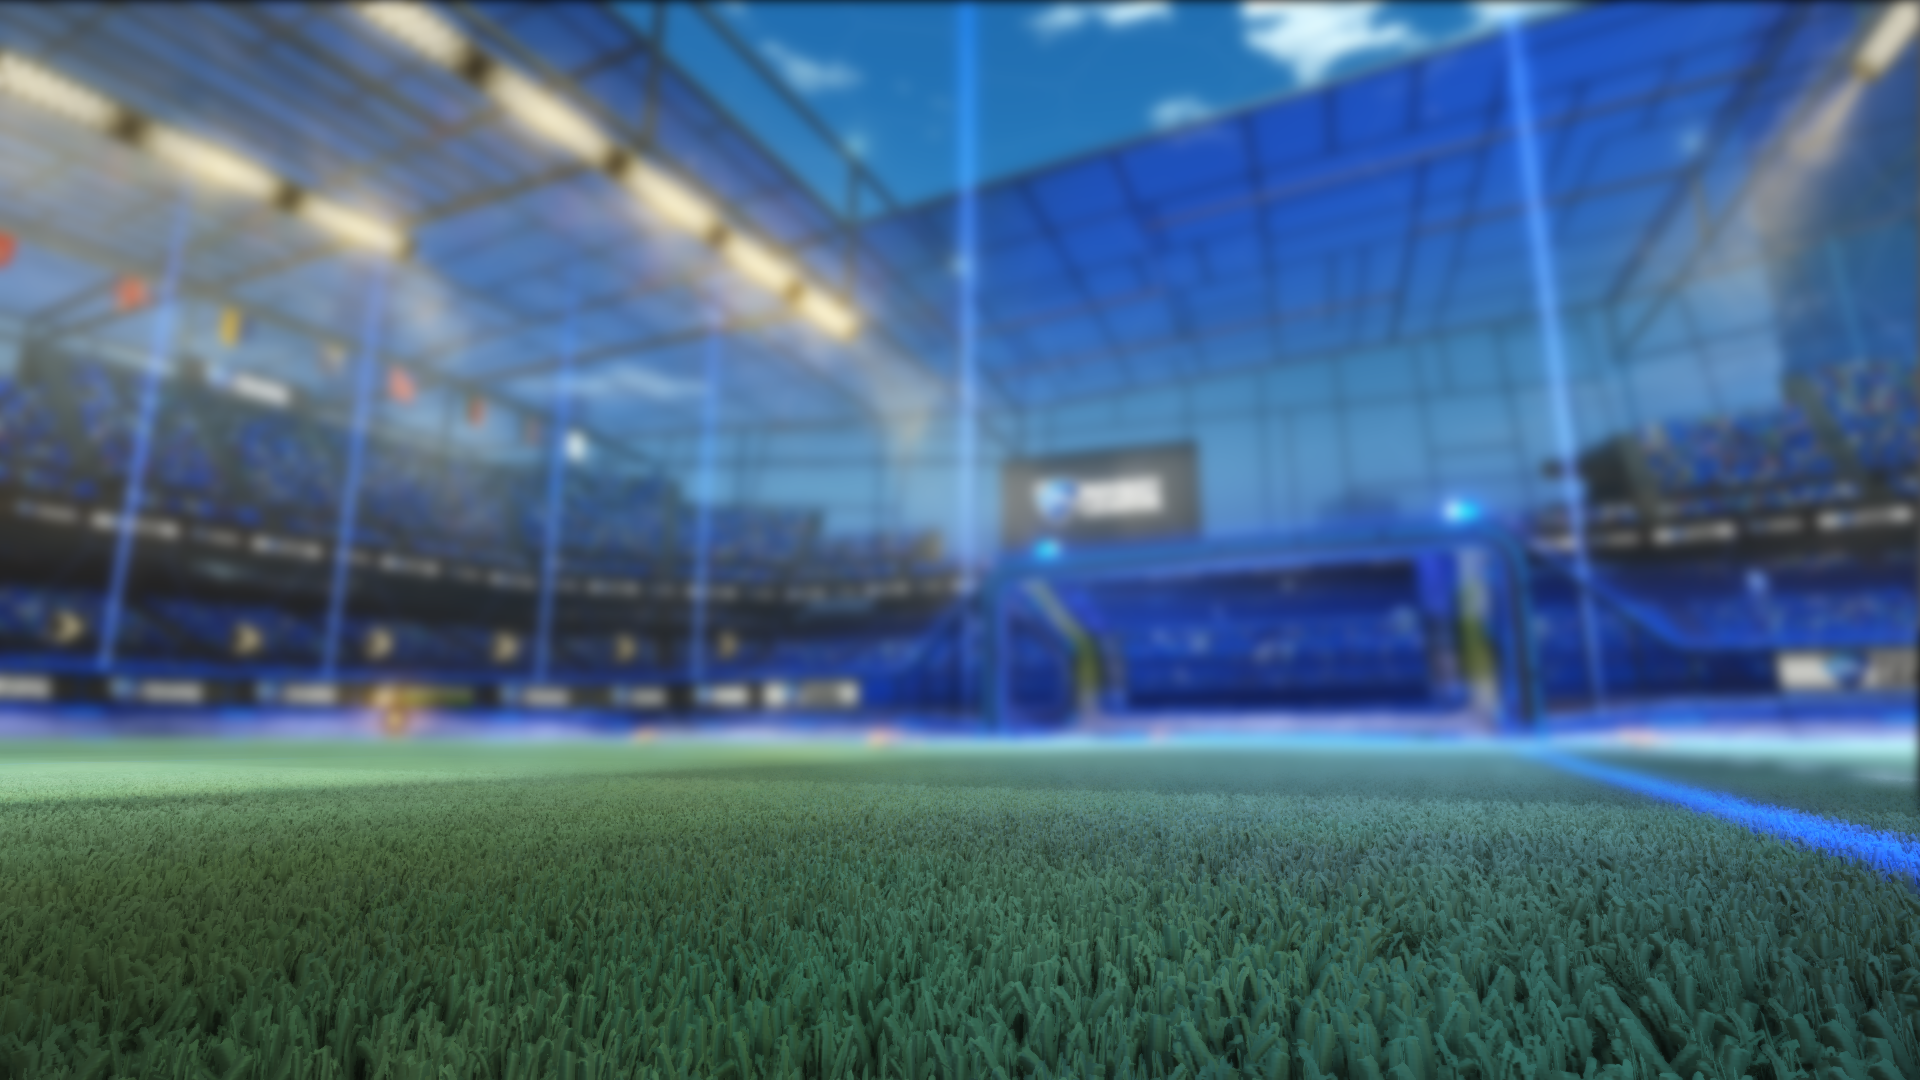
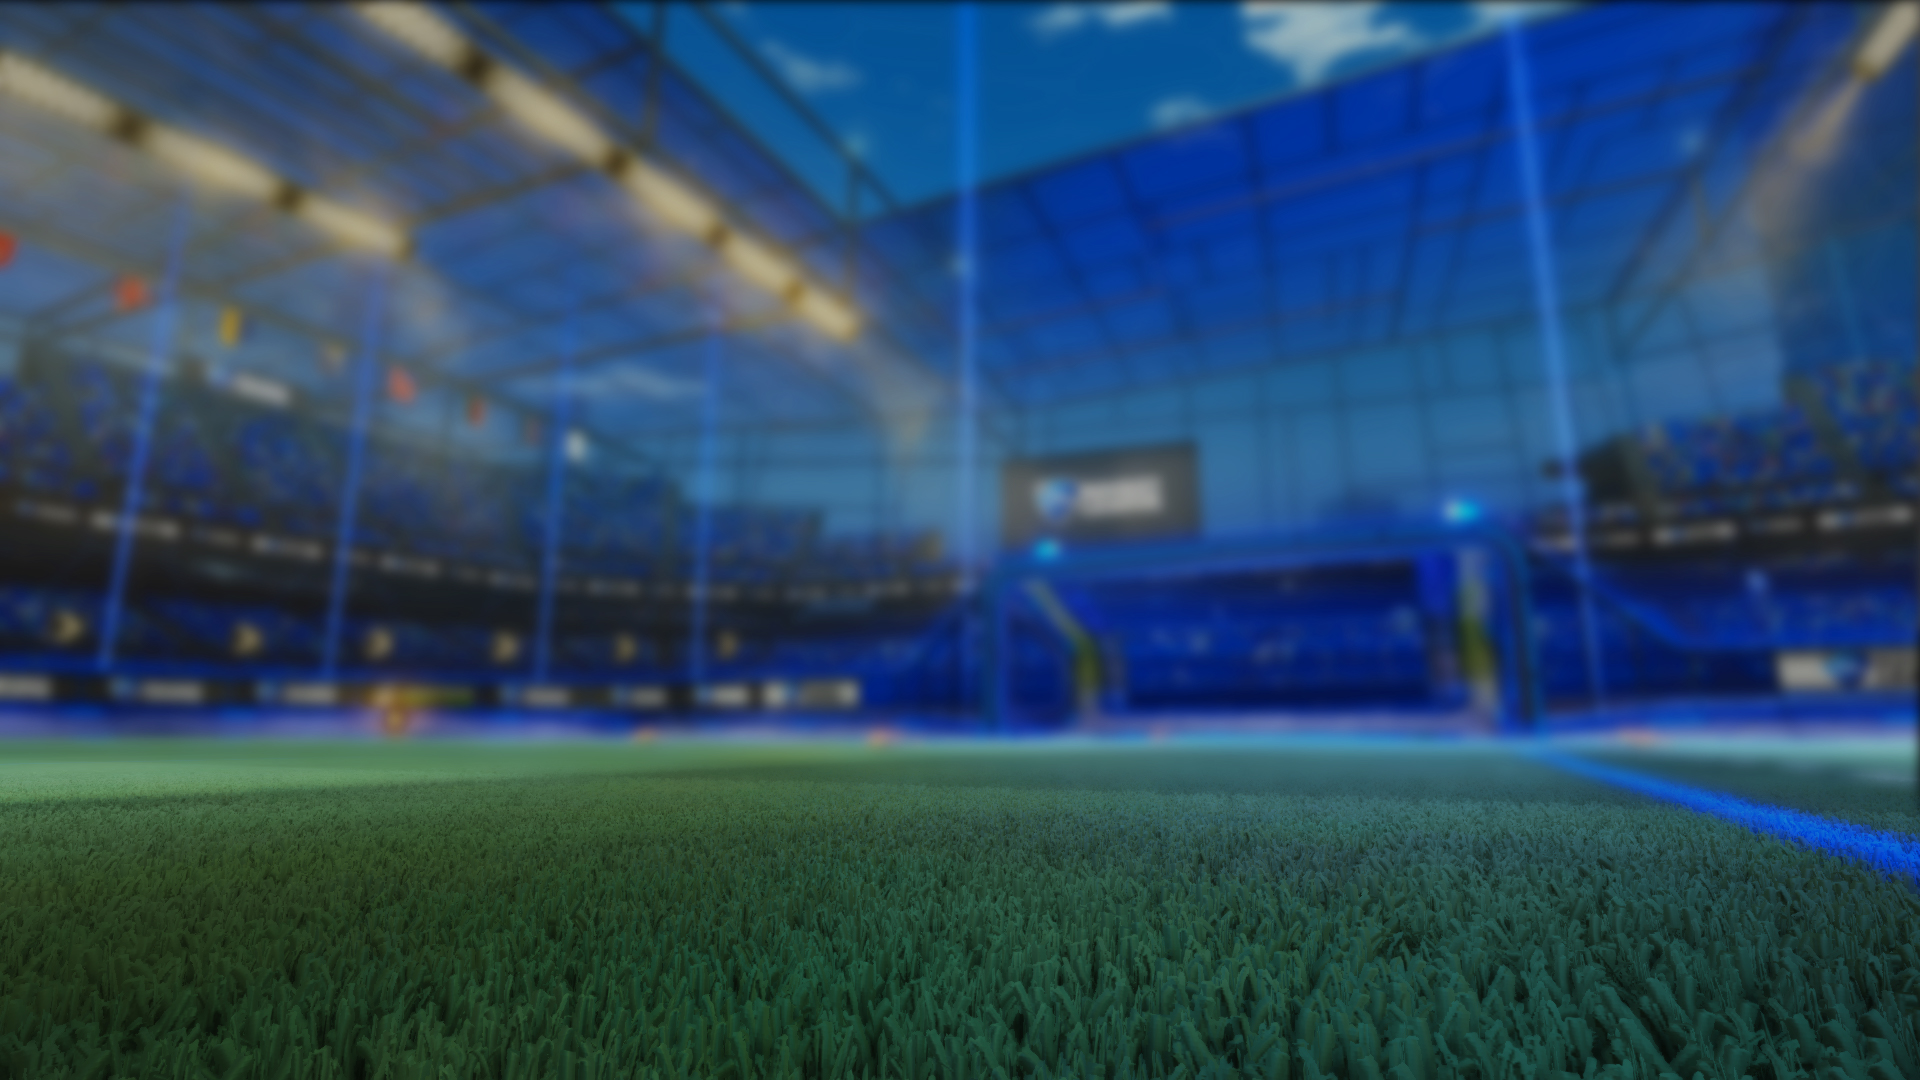
Page Compétion, RLCS et ESL + Modification visuel #1
Ajout des pages compétition , rlcs et esl , ainsi que le foncissement de l'image de fond pour faire ressortir le texte.

- Ajout de texte réel dans la page articles
- Retrait des liens vers les pages joueurs et techniques qui ne sont pas complète

#1

diff --git a/projetRL/ESL.html b/projetRL/ESL.html
@@ -1,0 +1,63 @@
+<!doctype html>
+<html lang="fr">
+<head>
+	<link rel="stylesheet" href="decoration/competition.css">
+	<meta charset="utf-8">
+	<title>rocketleague-fans</title>
+</head>
+<body>
+<header>
+<nav>
+	<h1>Rocket League Fans</h1>
+	<ul>
+		<li><a class="scale-effect" href="index.html">Accueil</a></li>
+		<li><a class="scale-effect" href="liste.html">Articles</a>
+			<ul>
+				<li><a class="scale-effect" href="Equipes.html">Equipes</a></li>
+				<li><a class="scale-effect" >Joueurs</a></li>
+				<li><a class="scale-effect" >Techniques</a></li>
+			</ul>
+		</li>
+		<li><a class="scale-effect" href="Competition.html">Compétition</a>
+			<ul>
+				<li><a class="scale-effect" href="RLCS.html">RLCS</a></li>
+				<li><a class="scale-effect" href="ESL.html">ESL</a></li>
+			</ul>
+		</li>
+		<li><a class="scale-effect" href="Contacter.html">Contacter</a></li>
+		<li><a class="scale-effect" href="Connexion.html">Connexion</a>
+			<ul>
+				<li><a class="scale-effect" href="Connexion.html">Se connecter</a></li>
+				<li><a class="scale-effect" href="Inscription.html">S'inscrire</a></li>
+			</ul>
+		</li>
+	</ul>
+</nav>
+</header>
+
+<section class="description">
+	
+	<h2>Compétitions internationales actuelles</h2>
+	
+	<h3>Intel Extreme Masters</h3>
+	<p id="description"> 
+		<b>
+			Les Intel Extreme Masters, appelés aussi IEM, sont la plus grande compétition internationale. Elle se décompose en plusieurs étapes à travers le monde comme Cologne, Shanghaï, New York, Rio de Janeiro ou encore Katowice. À l'issue de ces étapes, un classement est établi. Les vainqueurs de chaque étape et les 10 meilleurs du classement sont qualifiés pour la Grande finale. Les jeux actuellement utilisés sont Counter-Strike Global Offensive (CSGO), Starcraft 2 (SC2).
+		</b>
+	</p>
+	<h3>ESL One</h3>
+	<p id="description"> 
+		<b>
+			ESL One est une compétition uniquement offline dans un lieu mythique (souvent un stade ou une salle de spectacle de grande envergure). Il y a une phase de qualification online en amont rejoignant 8 équipes invitées grâce à leur statut de Légendes. Actuellement, Counter-Strike Global Offensive (CSGO) et Dota 2 sont les deux disciplines des ESL One.
+		</b>
+	</p>
+	<h3>ESL Pro League</h3>
+	<p id="description"> 
+		<b>
+			L'ESL Pro League est une compétition sous forme de phase de groupes regroupant les meilleures équipes. Elles se qualifient pour des finales offline avec de grands Cash-Prize. Actuellement, Counter-Strike Global Offensive (CSGO) et Rainbow6:Siege sont les deux jeux ayant une ligue de ce type.
+		</b>
+	</p>
+</section>
+
+</body>
+</html>

diff --git a/projetRL/RLCS.html b/projetRL/RLCS.html
@@ -1,0 +1,60 @@
+<!doctype html>
+<html lang="fr">
+<head>
+	<link rel="stylesheet" href="decoration/competition.css">
+	<meta charset="utf-8">
+	<title>rocketleague-fans</title>
+</head>
+<body>
+<header>
+<nav>
+	<h1>Rocket League Fans</h1>
+	<ul>
+		<li><a class="scale-effect" href="index.html">Accueil</a></li>
+		<li><a class="scale-effect" href="liste.html">Articles</a>
+			<ul>
+				<li><a class="scale-effect" href="Equipes.html">Equipes</a></li>
+				<li><a class="scale-effect" >Joueurs</a></li>
+				<li><a class="scale-effect" >Techniques</a></li>
+			</ul>
+		</li>
+		<li><a class="scale-effect" href="Competition.html">Compétition</a>
+			<ul>
+				<li><a class="scale-effect" href="RLCS.html">RLCS</a></li>
+				<li><a class="scale-effect" href="ESL.html">ESL</a></li>
+			</ul>
+		</li>
+		<li><a class="scale-effect" href="Contacter.html">Contacter</a></li>
+		<li><a class="scale-effect" href="Connexion.html">Connexion</a>
+			<ul>
+				<li><a class="scale-effect" href="Connexion.html">Se connecter</a></li>
+				<li><a class="scale-effect" href="Inscription.html">S'inscrire</a></li>
+			</ul>
+		</li>
+	</ul>
+</nav>
+</header>
+
+<section class="description">
+	
+	<h2>À propos de RLCS</h2>
+	<p id="description"> 
+		<b>
+			Les Rocket League Championship Series sont présentement à leur 10ieme saison, chaque région participante couronne un champion qui devront s'affronter par la suite pour le titre de champion du monde. Jusqu'à maintenant, chaque saison a été gagner par une équipe différente. Cependant, certains joueurs reviennent dans ces équipes ce qui fait en sorte que nous connaissons des joueurs comme Kaydop ou Turbopulsa qui sont couronner champion du monde 3 à 4 fois.
+		</b>
+	</p>
+	<h3>Un moment historique dans les RLCS</h3>
+	<p id="description"> 
+		<b>
+			Durant la finale de la saison 5, NRG Esports et Dignitas se retrouve à la partie sept de leur meilleur de 7. C'est durant les cinq dernières secondes du match que Dignitas réussit à faire un but pour briser l'égalité. Cela signifie que NRG doit absolument marquer avant la fin du compteur pour amener la partie en temps additionnel.
+		</b>
+	</p>
+	<h3>Voici ce qui arrive par la suite :</h3>
+</section>
+
+<section class="video-historique">
+	<iframe width="100%" height="664" src="https://www.youtube.com/embed/KNG7r1n6Jk8" frameborder="0" allow="accelerometer; autoplay; clipboard-write; encrypted-media; gyroscope; picture-in-picture" allowfullscreen></iframe>
+</section>
+
+</body>
+</html>

diff --git a/projetRL/Competition.html b/projetRL/Competition.html
@@ -34,39 +34,31 @@
 	</ul>
 </nav>
 </header>
-<h2> 1 : Les Équipes </h2>
+<h2> RLCS </h2>
 <article id="article">
 
 <div class="articles">
-	<a href="Equipes.html">
-		<img src="decoration/equipes.jpg" class="image" alt="equipes">
+	<a href="RLCS.html">
+		<img src="decoration/rlcs.jpg" class="image" alt="equipes">
 	</a>
 	<p>
 		<b>
-				Rocket League possède une multitude d'organisation différente qui forme des équipes afin de s'affronter dans les tournois internationaux. Dans cet article certaines équipes populaires sont présentées.
+				Les Rocket League Championship Series (souvent abrégé en RLCS) sont des tournois de sport électronique organisés par Psyonix sur le jeu Rocket League. Il s'agit des tournois les plus prestigieux de l'esport Rocket League.
 		</b>
 	</p>
 </div>
-<h3> 2 : Les Joueurs </h3>
+<h3> ESL </h3>
 <div class="articles">
-
-	<img src="decoration/joueurs.jpg" class="image" alt="joueurs">
+	<a href="ESL.html">
+		<img src="decoration/esl.jpg" class="image" alt="joueurs">
+	</a>
 	<p>
 		<b>
-				Les joueurs de rocket league sont récrutés par des organisations, cependant il est très rare qu'un joueur reste dans la même organisation durant toute sa carrière. Cet article présente les joueurs les plus connus et leurs accomplissements. - À venir
+				ESL (anciennement Electronic Sports League, Ligue de sport électronique en français) est une ligue pour les joueurs de sport électronique (aussi appelé esport). Fondée en 1997 sous le nom de Deutsche Clanliga (DeCL), Ligue de Clan Allemande, elle est la ligue la plus âgée de ce type avec environ 7 800 000 utilisateurs annoncés et plus de 12 671 345 matches joués répartis dans 97 412 tournois différents.
 		</b>
 	</p>
 </div>
-<h4> 3 : Les Techniques </h4>
-<div class="articles">
 
-	<img src="decoration/techniques.jpg" class="image" alt="techniques">
-	<p>
-		<b>
-				Rocket League possède un grand nombre de technique spéciale afin de mieux se déplacer sur le terrain ou même des techniques avancées qui sont utilisées afin de marquer des buts incroyables. Cet article présente les méchaniques du jeu les plus impréssionantes. - À venir
-		</b>
-	</p>
-</div>
 </article>
 </body>
 </html>

diff --git a/projetRL/decoration/competition.css b/projetRL/decoration/competition.css
@@ -1,22 +1,33 @@
+body
+{
+	background-image:url("liste-background.jpg");
+	background-size: 100% 100%;
+	background-repeat:no-repeat;
+	background-attachment:fixed;
+	background-position: right top;
+	margin:0;
+}
+
 h1
 {
 	color:white;
 	text-align:center;
 	font-size:40px;
 }
+
 h2
 {
 	color:white;
 	margin:auto;
 	text-align:center;
 	padding-top:2%;
+	font-size:35px;
 	padding-bottom:2%;
-	font-size:30px;
 }
 
 h3
 {
-	color:black;
+	color:white;
 	text-align:center;
 	font-size:25px;
 }
@@ -68,75 +79,18 @@ nav li ul
 	position:absolute;
 }
 
-.flex
-{
-	display:flex;
-	width:100%;
-	margin:0;
-	padding:0;
-	text-align:center;
-}
-
-#article
-{
-	width:800px;
-	position:relative;
-	margin:auto;
-}
-
-.articles
+#description
 {
 	text-align:center;
-	display:block;
-	border: solid white 5px;
-	margin:3%;
+	color:white;
+	font-size:21px;
+	margin-bottom:5em;
 }
 
-#img1
+.description
 {
+	width:60%;
 	margin:auto;
-	height:auto; 
-	display:block;
-}
-#img2
-{
-	margin:auto;
-	height:auto; 
-	display:block;
-	padding-top:5%;
-}
-#img3
-{
-	margin:auto;
-	height:auto; 
-	display:block;
-}
-
-p
-{
-	color:black;
-	text-align:center;
-	font-size:20px;
-}
-
-div
-{
-	background-color:white;
-}
-
-body
-{
-	background-image:url("liste-background.jpg");
-	background-size: 100% 100%;
-	background-repeat:no-repeat;
-	background-attachment:fixed;
-	background-position: right top;
-	margin:0;
-}
-
-.image
-{
-	width:100%;
 }
 
 .scale-effect
@@ -150,4 +104,11 @@ body
 	text-decoration:underline;
 	color:black;
 	background-color:GhostWhite;
+}
+
+.video-historique
+{
+	width:60%;
+	margin:auto;
+	padding-bottom:3em;
 }

diff --git a/projetRL/Connexion.html b/projetRL/Connexion.html
@@ -16,11 +16,11 @@
 		<li><a class="scale-effect" href="liste.html">Articles</a>
 			<ul>
 				<li><a class="scale-effect" href="Equipes.html">Equipes</a></li>
-				<li><a class="scale-effect" href="Joueurs.html">Joueurs</a></li>
-				<li><a class="scale-effect" href="Techniques.html">Techniques</a></li>
+				<li><a class="scale-effect" >Joueurs</a></li>
+				<li><a class="scale-effect" >Techniques</a></li>
 			</ul>
 		</li>
-		<li><a class="scale-effect" href="#">Compétition</a>
+		<li><a class="scale-effect" href="Competition.html">Compétition</a>
 			<ul>
 				<li><a class="scale-effect" href="RLCS.html">RLCS</a></li>
 				<li><a class="scale-effect" href="ESL.html">ESL</a></li>

diff --git a/projetRL/Contacter.html b/projetRL/Contacter.html
@@ -33,11 +33,11 @@
 		<li><a class="scale-effect" href="liste.html">Articles</a>
 			<ul>
 				<li><a class="scale-effect" href="Equipes.html">Equipes</a></li>
-				<li><a class="scale-effect" href="Joueurs.html">Joueurs</a></li>
-				<li><a class="scale-effect" href="Techniques.html">Techniques</a></li>
+				<li><a class="scale-effect" >Joueurs</a></li>
+				<li><a class="scale-effect" >Techniques</a></li>
 			</ul>
 		</li>
-		<li><a class="scale-effect" href="#">Compétition</a>
+		<li><a class="scale-effect" href="Competition.html">Compétition</a>
 			<ul>
 				<li><a class="scale-effect" href="RLCS.html">RLCS</a></li>
 				<li><a class="scale-effect" href="ESL.html">ESL</a></li>

diff --git a/projetRL/Equipes.html b/projetRL/Equipes.html
@@ -14,11 +14,11 @@
 		<li><a class="scale-effect" href="liste.html">Articles</a>
 			<ul>
 				<li><a class="scale-effect" href="Equipes.html">Equipes</a></li>
-				<li><a class="scale-effect" href="Joueurs.html">Joueurs</a></li>
-				<li><a class="scale-effect" href="Techniques.html">Techniques</a></li>
+				<li><a class="scale-effect" >Joueurs</a></li>
+				<li><a class="scale-effect" >Techniques</a></li>
 			</ul>
 		</li>
-		<li><a class="scale-effect" href="#">Compétition</a>
+		<li><a class="scale-effect" href="Competition.html">Compétition</a>
 			<ul>
 				<li><a class="scale-effect" href="RLCS.html">RLCS</a></li>
 				<li><a class="scale-effect" href="ESL.html">ESL</a></li>

diff --git a/projetRL/Inscription.html b/projetRL/Inscription.html
@@ -19,11 +19,11 @@
 		<li><a class="scale-effect" href="liste.html">Articles</a>
 			<ul>
 				<li><a class="scale-effect" href="Equipes.html">Equipes</a></li>
-				<li><a class="scale-effect" href="Joueurs.html">Joueurs</a></li>
-				<li><a class="scale-effect" href="Techniques.html">Techniques</a></li>
+				<li><a class="scale-effect" >Joueurs</a></li>
+				<li><a class="scale-effect" >Techniques</a></li>
 			</ul>
 		</li>
-		<li><a class="scale-effect" href="#">Compétition</a>
+		<li><a class="scale-effect" href="Competition.html">Compétition</a>
 			<ul>
 				<li><a class="scale-effect" href="RLCS.html">RLCS</a></li>
 				<li><a class="scale-effect" href="ESL.html">ESL</a></li>

diff --git a/projetRL/index.html b/projetRL/index.html
@@ -14,11 +14,11 @@
 		<li><a class="scale-effect" href="liste.html">Articles</a>
 			<ul>
 				<li><a class="scale-effect" href="Equipes.html">Equipes</a></li>
-				<li><a class="scale-effect" href="Joueurs.html">Joueurs</a></li>
-				<li><a class="scale-effect" href="Techniques.html">Techniques</a></li>
+				<li><a class="scale-effect" >Joueurs</a></li>
+				<li><a class="scale-effect" >Techniques</a></li>
 			</ul>
 		</li>
-		<li><a class="scale-effect" href="#">Compétition</a>
+		<li><a class="scale-effect" href="Competition.html">Compétition</a>
 			<ul>
 				<li><a class="scale-effect" href="RLCS.html">RLCS</a></li>
 				<li><a class="scale-effect" href="ESL.html">ESL</a></li>
